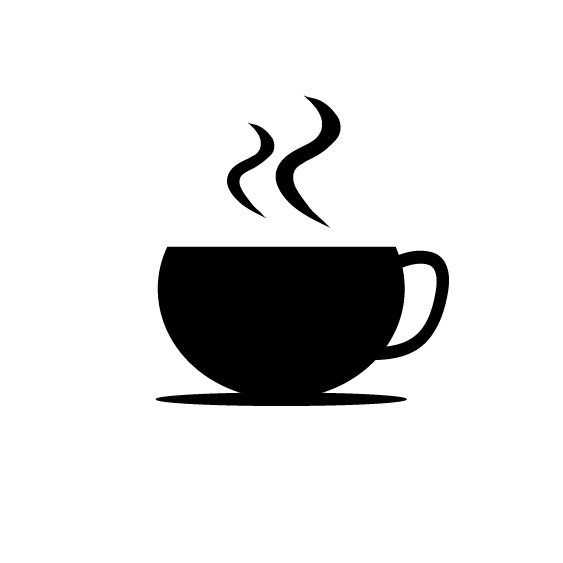
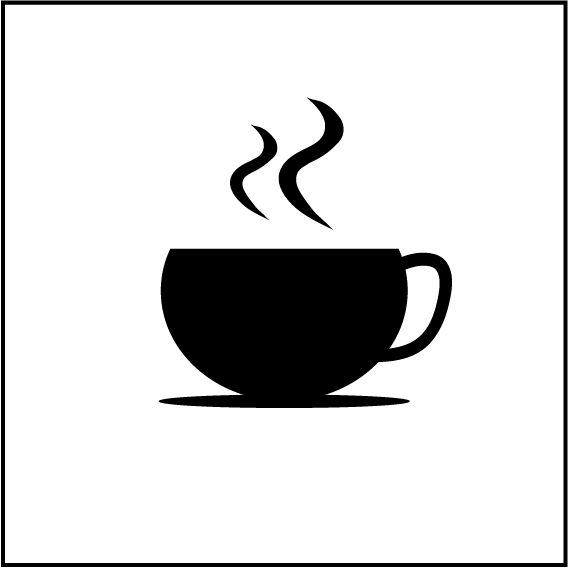
updating pictures

diff --git a/V2/QuestionnaireView.swift b/V2/QuestionnaireView.swift
@@ -103,13 +103,13 @@ struct QuestionnaireView: View {
                             if index == 5 { // For the question with images
                                 VStack {
                                     HStack {
-                                        WebImage(url: URL(string: "https://raw.githubusercontent.com/Spandan-Madan/memorious_app/main/V2/cat.png"))
+                                        WebImage(url: URL(string: "https://raw.githubusercontent.com/Spandan-Madan/memorious_app/main/V2/noun-camera-6796334.png"))
                                             .resizable()
                                             .frame(width: 100, height: 100)
-                                        WebImage(url: URL(string: "https://raw.githubusercontent.com/Spandan-Madan/memorious_app/main/V2/camera.png"))
+                                        WebImage(url: URL(string: "https://raw.githubusercontent.com/Spandan-Madan/memorious_app/main/V2/noun-cat-6992177.png"))
                                             .resizable()
                                             .frame(width: 100, height: 100)
-                                        WebImage(url: URL(string: "https://raw.githubusercontent.com/Spandan-Madan/memorious_app/main/V2/coffee.png"))
+                                        WebImage(url: URL(string: "https://raw.githubusercontent.com/Spandan-Madan/memorious_app/main/V2/noun-coffee-6706442.png"))
                                             .resizable()
                                             .frame(width: 100, height: 100)
                                     }
